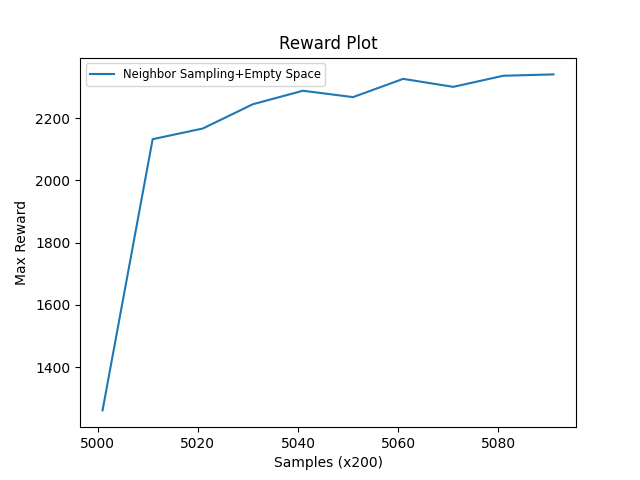
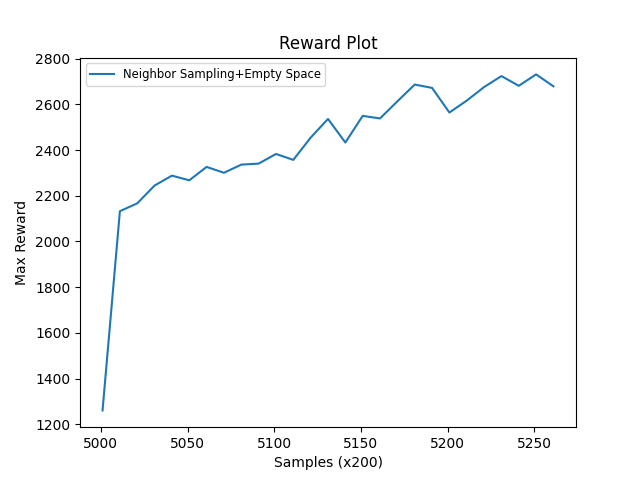
plot update

diff --git a/plots/plot_reward.py b/plots/plot_reward.py
@@ -7,15 +7,15 @@ import os
 # x_step_size = 1
 # iterationString = ""
 
-start_iteration = 1000
-end_iteration = 1100
-x_step_size = 10
-iterationString = "_2"
-
-# start_iteration = 5000
-# end_iteration = 5100
+# start_iteration = 1000
+# end_iteration = 1100
 # x_step_size = 10
-# iterationString = "_optimal_5M_1"
+# iterationString = "_2"
+
+start_iteration = 5000
+end_iteration = 5263
+x_step_size = 10
+iterationString = "_optimal_5M_1"
 
 x = np.arange(start_iteration+1, end_iteration+1, x_step_size)
 
@@ -106,7 +106,7 @@ try:
     rewards = rewards[:len(x)]
 
     # Plot the rewards
-    plt.plot(x, rewards, label="Neighbor Sampling+Random Walk")
+    # plt.plot(x, rewards, label="Neighbor Sampling+Random Walk")
 except:
     print("Error in nn random walk directory")
 
@@ -166,7 +166,7 @@ try:
     rewards = rewards[:len(x)]
 
     # Plot the rewards
-    plt.plot(x, rewards, label="Random Sample+Random Walk")
+    # plt.plot(x, rewards, label="Random Sample+Random Walk")
 except:
     print("Error in rsample random walk directory")
 
@@ -197,7 +197,7 @@ try:
     rewards = rewards[:len(x)]
 
     # Plot the rewards
-    plt.plot(x, rewards, label="Normal Training")
+    # plt.plot(x, rewards, label="Normal Training")
 except:
     print("Error in normal train directory")
 
